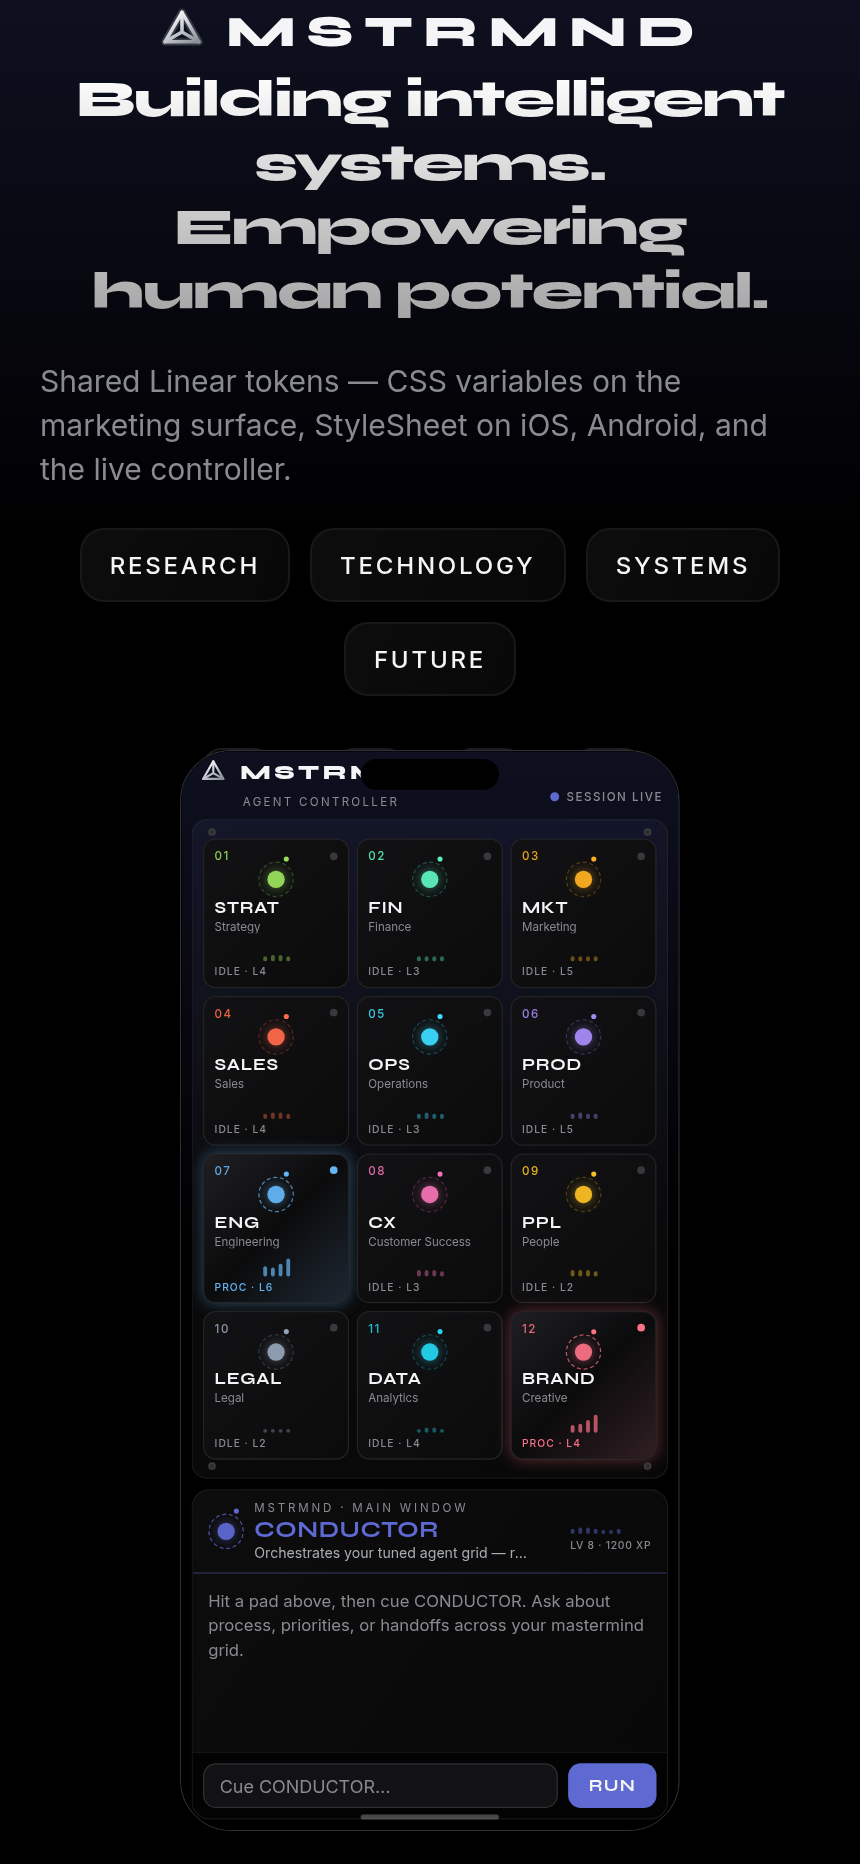
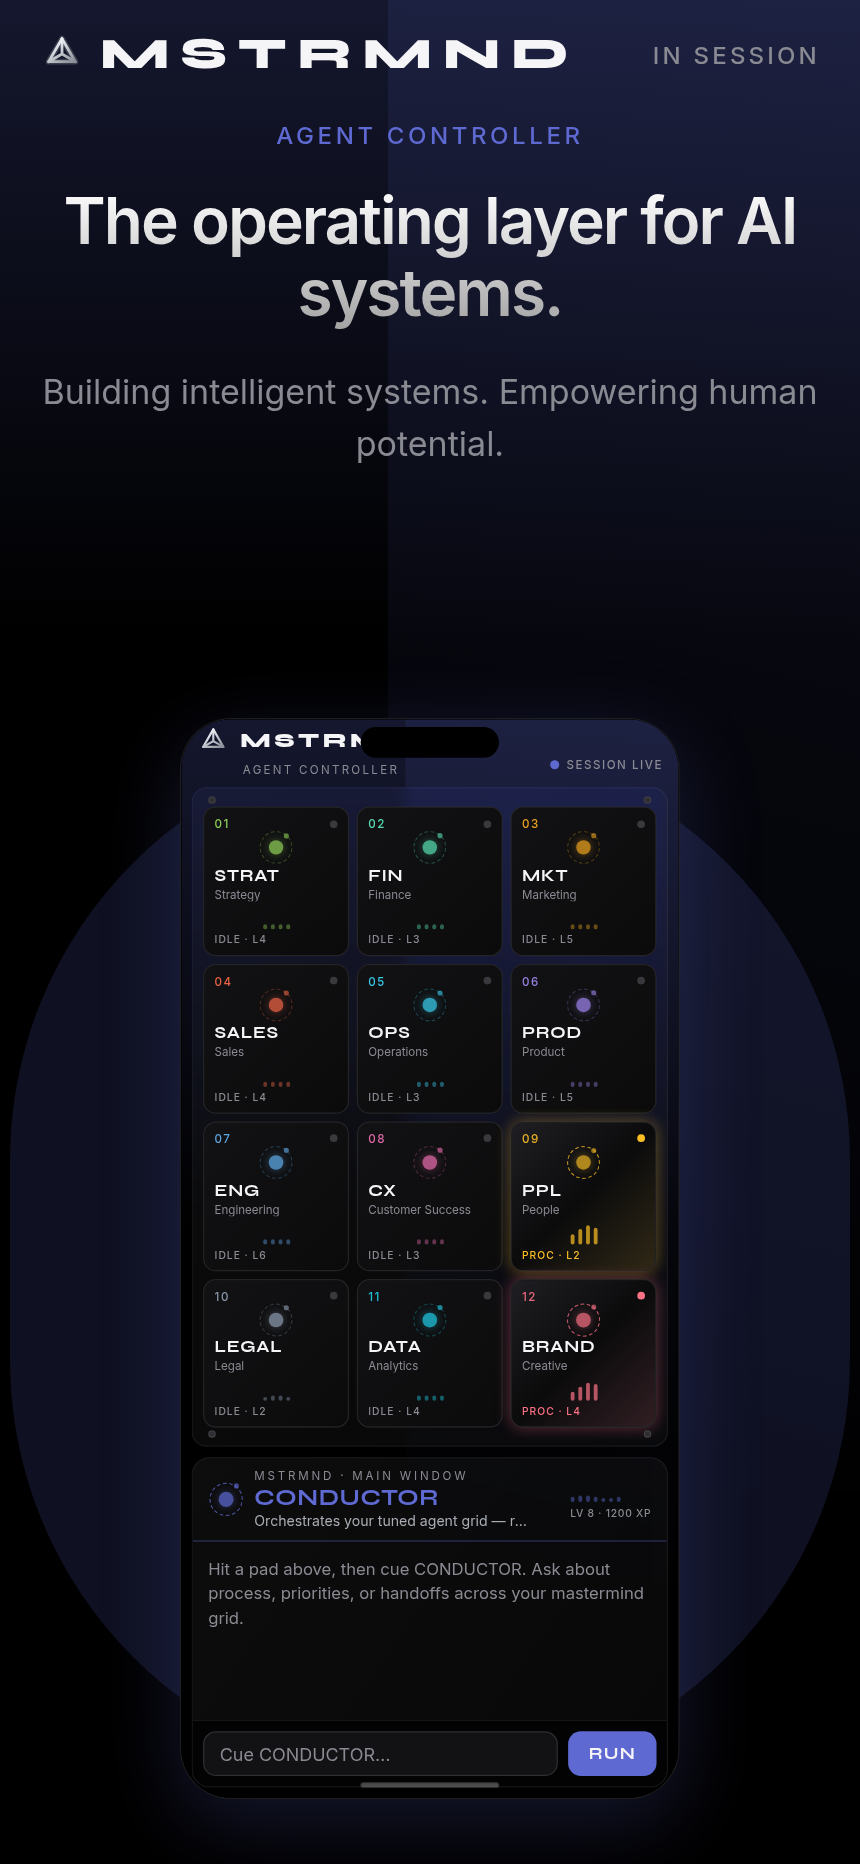
Rebuild MSTRMND marketing as a Linear product page
Drop the token swatches and CSS-variable copy. Use Inter headlines, glass feature cards, and an indigo product glow, then recapture the live web screenshots.

diff --git a/mstrmnd/components/MarketingFrame.tsx b/mstrmnd/components/MarketingFrame.tsx
@@ -5,13 +5,31 @@ import { CinematicBackground } from '@/components/CinematicBackground';
 import { GlassCard } from '@/components/GlassCard';
 import { ShimmerText } from '@/components/ShimmerText';
 import { brand } from '@/constants/theme';
-import { color, font, radius, space } from '@/tokens';
+import { color, font } from '@/tokens';
 
 type Props = {
   children: ReactNode;
 };
 
 const WIDE = 1100;
+
+const FEATURES = [
+  {
+    kicker: 'Grid',
+    title: 'Twelve live pads',
+    body: 'Every department on one surface — status, cue, and session in the same dark room.',
+  },
+  {
+    kicker: 'Conductor',
+    title: 'One operator',
+    body: 'Route work across the company, synthesize the answer, and keep the score.',
+  },
+  {
+    kicker: 'Session',
+    title: 'Always on',
+    body: 'Streaming replies, living pads, and a single indigo signal when something moves.',
+  },
+] as const;
 
 /**
  * Web marketing stage around the live Expo phone preview.
@@ -28,43 +46,37 @@ export function MarketingFrame({ children }: Props) {
 
   return (
     <View style={styles.root}>
-      <CinematicBackground glowHeight={wide ? 520 : 280} />
-      <View style={[styles.inner, !wide && styles.innerNarrow]}>
-        <View style={[styles.copy, !wide && styles.copyNarrow]}>
-          <BrandLockup markSize={wide ? 36 : 28} glow />
-          <ShimmerText style={wide ? styles.headline : styles.headlineNarrow}>
-            {brand.tagline}
-          </ShimmerText>
-          <Text style={styles.lede}>
-            Shared Linear tokens — CSS variables on the marketing surface, StyleSheet
-            on iOS, Android, and the live controller.
-          </Text>
-          <View style={[styles.pillars, !wide && styles.pillarsWrap]}>
-            {brand.pillars.map((pillar) => (
-              <GlassCard key={pillar} style={styles.pillar} padded={false}>
-                <Text style={styles.pillarLabel}>{pillar}</Text>
-              </GlassCard>
-            ))}
-          </View>
-          <View style={styles.swatches}>
-            <Swatch hex={color.substrate} label="Substrate" />
-            <Swatch hex={color.surface} label="Surface" />
-            <Swatch hex={color.surfaceElevated} label="Elevated" />
-            <Swatch hex={color.accent} label="Accent" />
-          </View>
-        </View>
-        <View style={styles.deviceSlot}>{children}</View>
+      <CinematicBackground glowHeight={wide ? 560 : 320} />
+      <View style={[styles.nav, !wide && styles.navNarrow]}>
+        <BrandLockup markSize={22} glow />
+        <Text style={styles.navMeta}>In session</Text>
       </View>
-    </View>
-  );
-}
-
-function Swatch({ hex, label }: { hex: string; label: string }) {
-  return (
-    <View style={styles.swatch}>
-      <View style={[styles.swatchChip, { backgroundColor: hex }]} />
-      <Text style={styles.swatchLabel}>{label}</Text>
-      <Text style={styles.swatchHex}>{hex}</Text>
+      <View style={[styles.hero, !wide && styles.heroNarrow]}>
+        <View style={[styles.copy, !wide && styles.copyNarrow]}>
+          <Text style={styles.kicker}>Agent controller</Text>
+          <ShimmerText style={wide ? styles.headline : styles.headlineNarrow}>
+            The operating layer for AI systems.
+          </ShimmerText>
+          <Text style={[styles.lede, !wide && styles.ledeNarrow]}>{brand.tagline}</Text>
+          {wide ? (
+            <View style={styles.features}>
+              {FEATURES.map((feature) => (
+                <GlassCard key={feature.kicker} style={styles.feature} padded={false}>
+                  <View style={styles.featureInner}>
+                    <Text style={styles.featureKicker}>{feature.kicker}</Text>
+                    <Text style={styles.featureTitle}>{feature.title}</Text>
+                    <Text style={styles.featureBody}>{feature.body}</Text>
+                  </View>
+                </GlassCard>
+              ))}
+            </View>
+          ) : null}
+        </View>
+        <View style={styles.deviceSlot}>
+          <View pointerEvents="none" style={styles.deviceGlow} />
+          {children}
+        </View>
+      </View>
     </View>
   );
 }
@@ -76,24 +88,45 @@ const styles = StyleSheet.create({
     height: '100%',
     backgroundColor: color.substrate,
   },
-  inner: {
+  nav: {
+    zIndex: 2,
+    flexDirection: 'row',
+    alignItems: 'center',
+    justifyContent: 'space-between',
+    paddingHorizontal: 40,
+    paddingTop: 22,
+    paddingBottom: 8,
+  },
+  navNarrow: {
+    paddingHorizontal: 20,
+    paddingTop: 14,
+  },
+  navMeta: {
+    fontFamily: font.sansMedium,
+    color: color.textSecondary,
+    fontSize: 12,
+    letterSpacing: 1.6,
+    textTransform: 'uppercase',
+  },
+  hero: {
     flex: 1,
     flexDirection: 'row',
     alignItems: 'center',
     justifyContent: 'center',
-    paddingHorizontal: 48,
-    gap: 56,
+    paddingHorizontal: 40,
+    paddingBottom: 32,
+    gap: 64,
     zIndex: 1,
   },
-  innerNarrow: {
+  heroNarrow: {
     flexDirection: 'column',
     paddingHorizontal: 20,
-    paddingVertical: 16,
-    gap: 20,
+    paddingTop: 12,
+    gap: 28,
   },
   copy: {
     flex: 1,
-    maxWidth: 520,
+    maxWidth: 560,
     gap: 18,
   },
   copyNarrow: {
@@ -101,71 +134,76 @@ const styles = StyleSheet.create({
     width: '100%',
     alignItems: 'center',
   },
+  kicker: {
+    fontFamily: font.sansMedium,
+    color: color.accent,
+    fontSize: 12,
+    letterSpacing: 1.8,
+    textTransform: 'uppercase',
+  },
   headline: {
-    fontSize: 40,
-    lineHeight: 46,
-    letterSpacing: -0.6,
+    fontFamily: font.sansSemi,
+    fontSize: 56,
+    lineHeight: 60,
+    letterSpacing: -1.8,
   },
   headlineNarrow: {
-    fontSize: 26,
-    lineHeight: 32,
+    fontFamily: font.sansSemi,
+    fontSize: 32,
+    lineHeight: 36,
+    letterSpacing: -1,
     textAlign: 'center',
   },
   lede: {
     fontFamily: font.sans,
     color: color.textSecondary,
-    fontSize: 15,
-    lineHeight: 22,
-    maxWidth: 440,
+    fontSize: 17,
+    lineHeight: 26,
+    maxWidth: 420,
   },
-  pillars: {
-    flexDirection: 'row',
+  ledeNarrow: {
+    textAlign: 'center',
+  },
+  features: {
+    marginTop: 8,
     gap: 10,
   },
-  pillarsWrap: {
-    flexWrap: 'wrap',
-    justifyContent: 'center',
+  feature: {
+    maxWidth: 440,
   },
-  pillar: {
-    paddingHorizontal: 14,
-    paddingVertical: 10,
+  featureInner: {
+    paddingHorizontal: 16,
+    paddingVertical: 14,
+    gap: 4,
   },
-  pillarLabel: {
+  featureKicker: {
     fontFamily: font.sansMedium,
-    color: color.textPrimary,
-    fontSize: 12,
+    color: color.accent,
+    fontSize: 11,
     letterSpacing: 1.4,
     textTransform: 'uppercase',
   },
-  swatches: {
-    flexDirection: 'row',
-    gap: 16,
-    marginTop: 8,
-  },
-  swatch: {
-    gap: 4,
-  },
-  swatchChip: {
-    width: 36,
-    height: 36,
-    borderRadius: radius.pad,
-    borderWidth: 1,
-    borderColor: color.borderMuted,
-  },
-  swatchLabel: {
-    fontFamily: font.sansMedium,
+  featureTitle: {
+    fontFamily: font.sansSemi,
     color: color.textPrimary,
-    fontSize: 10,
-    letterSpacing: 0.4,
+    fontSize: 15,
+    letterSpacing: -0.2,
   },
-  swatchHex: {
+  featureBody: {
     fontFamily: font.sans,
     color: color.textSecondary,
-    fontSize: 9,
-    letterSpacing: 0.3,
+    fontSize: 13,
+    lineHeight: 19,
   },
   deviceSlot: {
     alignItems: 'center',
     justifyContent: 'center',
+  },
+  deviceGlow: {
+    position: 'absolute',
+    width: 420,
+    height: 520,
+    borderRadius: 260,
+    backgroundColor: 'rgba(94, 106, 210, 0.16)',
   },
 });

diff --git a/mstrmnd/app/_layout.tsx b/mstrmnd/app/_layout.tsx
@@ -15,7 +15,7 @@ import {
   Inter_700Bold,
 } from '@expo-google-fonts/inter';
 import { GestureHandlerRootView } from 'react-native-gesture-handler';
-import { StyleSheet } from 'react-native';
+import { Platform, StyleSheet } from 'react-native';
 import { ControllerProvider } from '@/context/ControllerContext';
 import { MobileShell } from '@/components/MobileShell';
 import { SplashOverlay } from '@/components/SplashOverlay';
@@ -36,7 +36,7 @@ const navigationTheme = {
 };
 
 export default function RootLayout() {
-  const [showBrandSplash, setShowBrandSplash] = useState(true);
+  const [showBrandSplash, setShowBrandSplash] = useState(Platform.OS !== 'web');
   const [fontsLoaded] = useFonts({
     Syne_700Bold,
     Syne_800ExtraBold,

diff --git a/mstrmnd/components/CinematicBackground.tsx b/mstrmnd/components/CinematicBackground.tsx
@@ -18,6 +18,12 @@ export function CinematicBackground({ glowHeight = 400 }: Props) {
         colors={[color.accentGlow, 'rgba(0, 0, 0, 0)']}
         style={[styles.glow, { height: glowHeight }]}
       />
+      <LinearGradient
+        colors={['rgba(94, 106, 210, 0.12)', 'rgba(0, 0, 0, 0)']}
+        start={{ x: 1, y: 0 }}
+        end={{ x: 0.2, y: 1 }}
+        style={styles.sideGlow}
+      />
     </View>
   );
 }
@@ -35,5 +41,12 @@ const styles = StyleSheet.create({
     top: 0,
     left: 0,
     right: 0,
+  },
+  sideGlow: {
+    position: 'absolute',
+    top: 0,
+    right: 0,
+    width: '55%',
+    height: '80%',
   },
 });

diff --git a/mstrmnd/components/MobileShell.tsx b/mstrmnd/components/MobileShell.tsx
@@ -64,12 +64,12 @@ const styles = StyleSheet.create({
     backgroundColor: color.surface,
     borderRadius: 40,
     borderWidth: 1,
-    borderColor: color.borderHighlight,
+    borderColor: color.hairline,
     overflow: 'hidden',
-    shadowColor: color.substrate,
-    shadowOpacity: 0.6,
-    shadowRadius: 48,
-    shadowOffset: { width: 0, height: 22 },
+    shadowColor: color.accent,
+    shadowOpacity: 0.22,
+    shadowRadius: 64,
+    shadowOffset: { width: 0, height: 18 },
   },
   bezelTop: {
     position: 'absolute',

diff --git a/mstrmnd/styles/linear.css b/mstrmnd/styles/linear.css
@@ -14,7 +14,7 @@
   --linear-glass-tint: rgba(255, 255, 255, 0.03);
   --linear-glass-tint-soft: rgba(255, 255, 255, 0.01);
   --linear-glass-fallback: rgba(18, 18, 20, 0.85);
-  --linear-accent-glow: rgba(94, 106, 210, 0.15);
+  --linear-accent-glow: rgba(94, 106, 210, 0.22);
   --linear-overlay: rgba(0, 0, 0, 0.5);
   --linear-shimmer-start: #ffffff;
   --linear-shimmer-end: #a3a3a3;

diff --git a/mstrmnd/components/ShimmerText.tsx b/mstrmnd/components/ShimmerText.tsx
@@ -28,10 +28,10 @@ export function ShimmerText({ children, style }: Props) {
 
 const styles = StyleSheet.create({
   base: {
-    fontFamily: font.display,
-    fontSize: 42,
-    letterSpacing: -0.8,
-    lineHeight: 46,
+    fontFamily: font.sansSemi,
+    fontSize: 56,
+    letterSpacing: -1.8,
+    lineHeight: 60,
   },
   native: {
     color: color.textPrimary,

diff --git a/mstrmnd/tokens/index.ts b/mstrmnd/tokens/index.ts
@@ -29,7 +29,7 @@ export const color = {
   /** Android glass fallback — high-opacity dark surface */
   glassFallback: 'rgba(18, 18, 20, 0.85)',
   /** Top ambient color leak */
-  accentGlow: 'rgba(94, 106, 210, 0.15)',
+  accentGlow: 'rgba(94, 106, 210, 0.22)',
   overlay: 'rgba(0, 0, 0, 0.5)',
   shimmerStart: '#FFFFFF',
   shimmerEnd: '#A3A3A3',

diff --git a/mstrmnd/README.md b/mstrmnd/README.md
@@ -41,15 +41,13 @@ npm install --legacy-peer-deps
 npx expo start
 ```
 
-Web loads the marketing stage (shimmer headline, glass pillar cards, token swatches) around the live phone preview. Native skips the marketing frame and opens the controller full-screen.
+Web loads a Linear-style marketing stage around the live phone preview. Native skips the marketing frame and opens the controller full-screen.
 
 ## Screenshots
 
-![Marketing desktop — Linear tokens beside the live controller](docs/screenshots/marketing-desktop.png)
+![Marketing desktop](docs/screenshots/marketing-desktop.png)
 
-![Boot splash over the marketing stage](docs/screenshots/marketing-splash.png)
-
-![Narrow web — marketing stack above the phone chrome](docs/screenshots/controller-mobile.png)
+![Narrow web](docs/screenshots/controller-mobile.png)
 
 
 Regenerate splash/icon rasters after mark changes:
